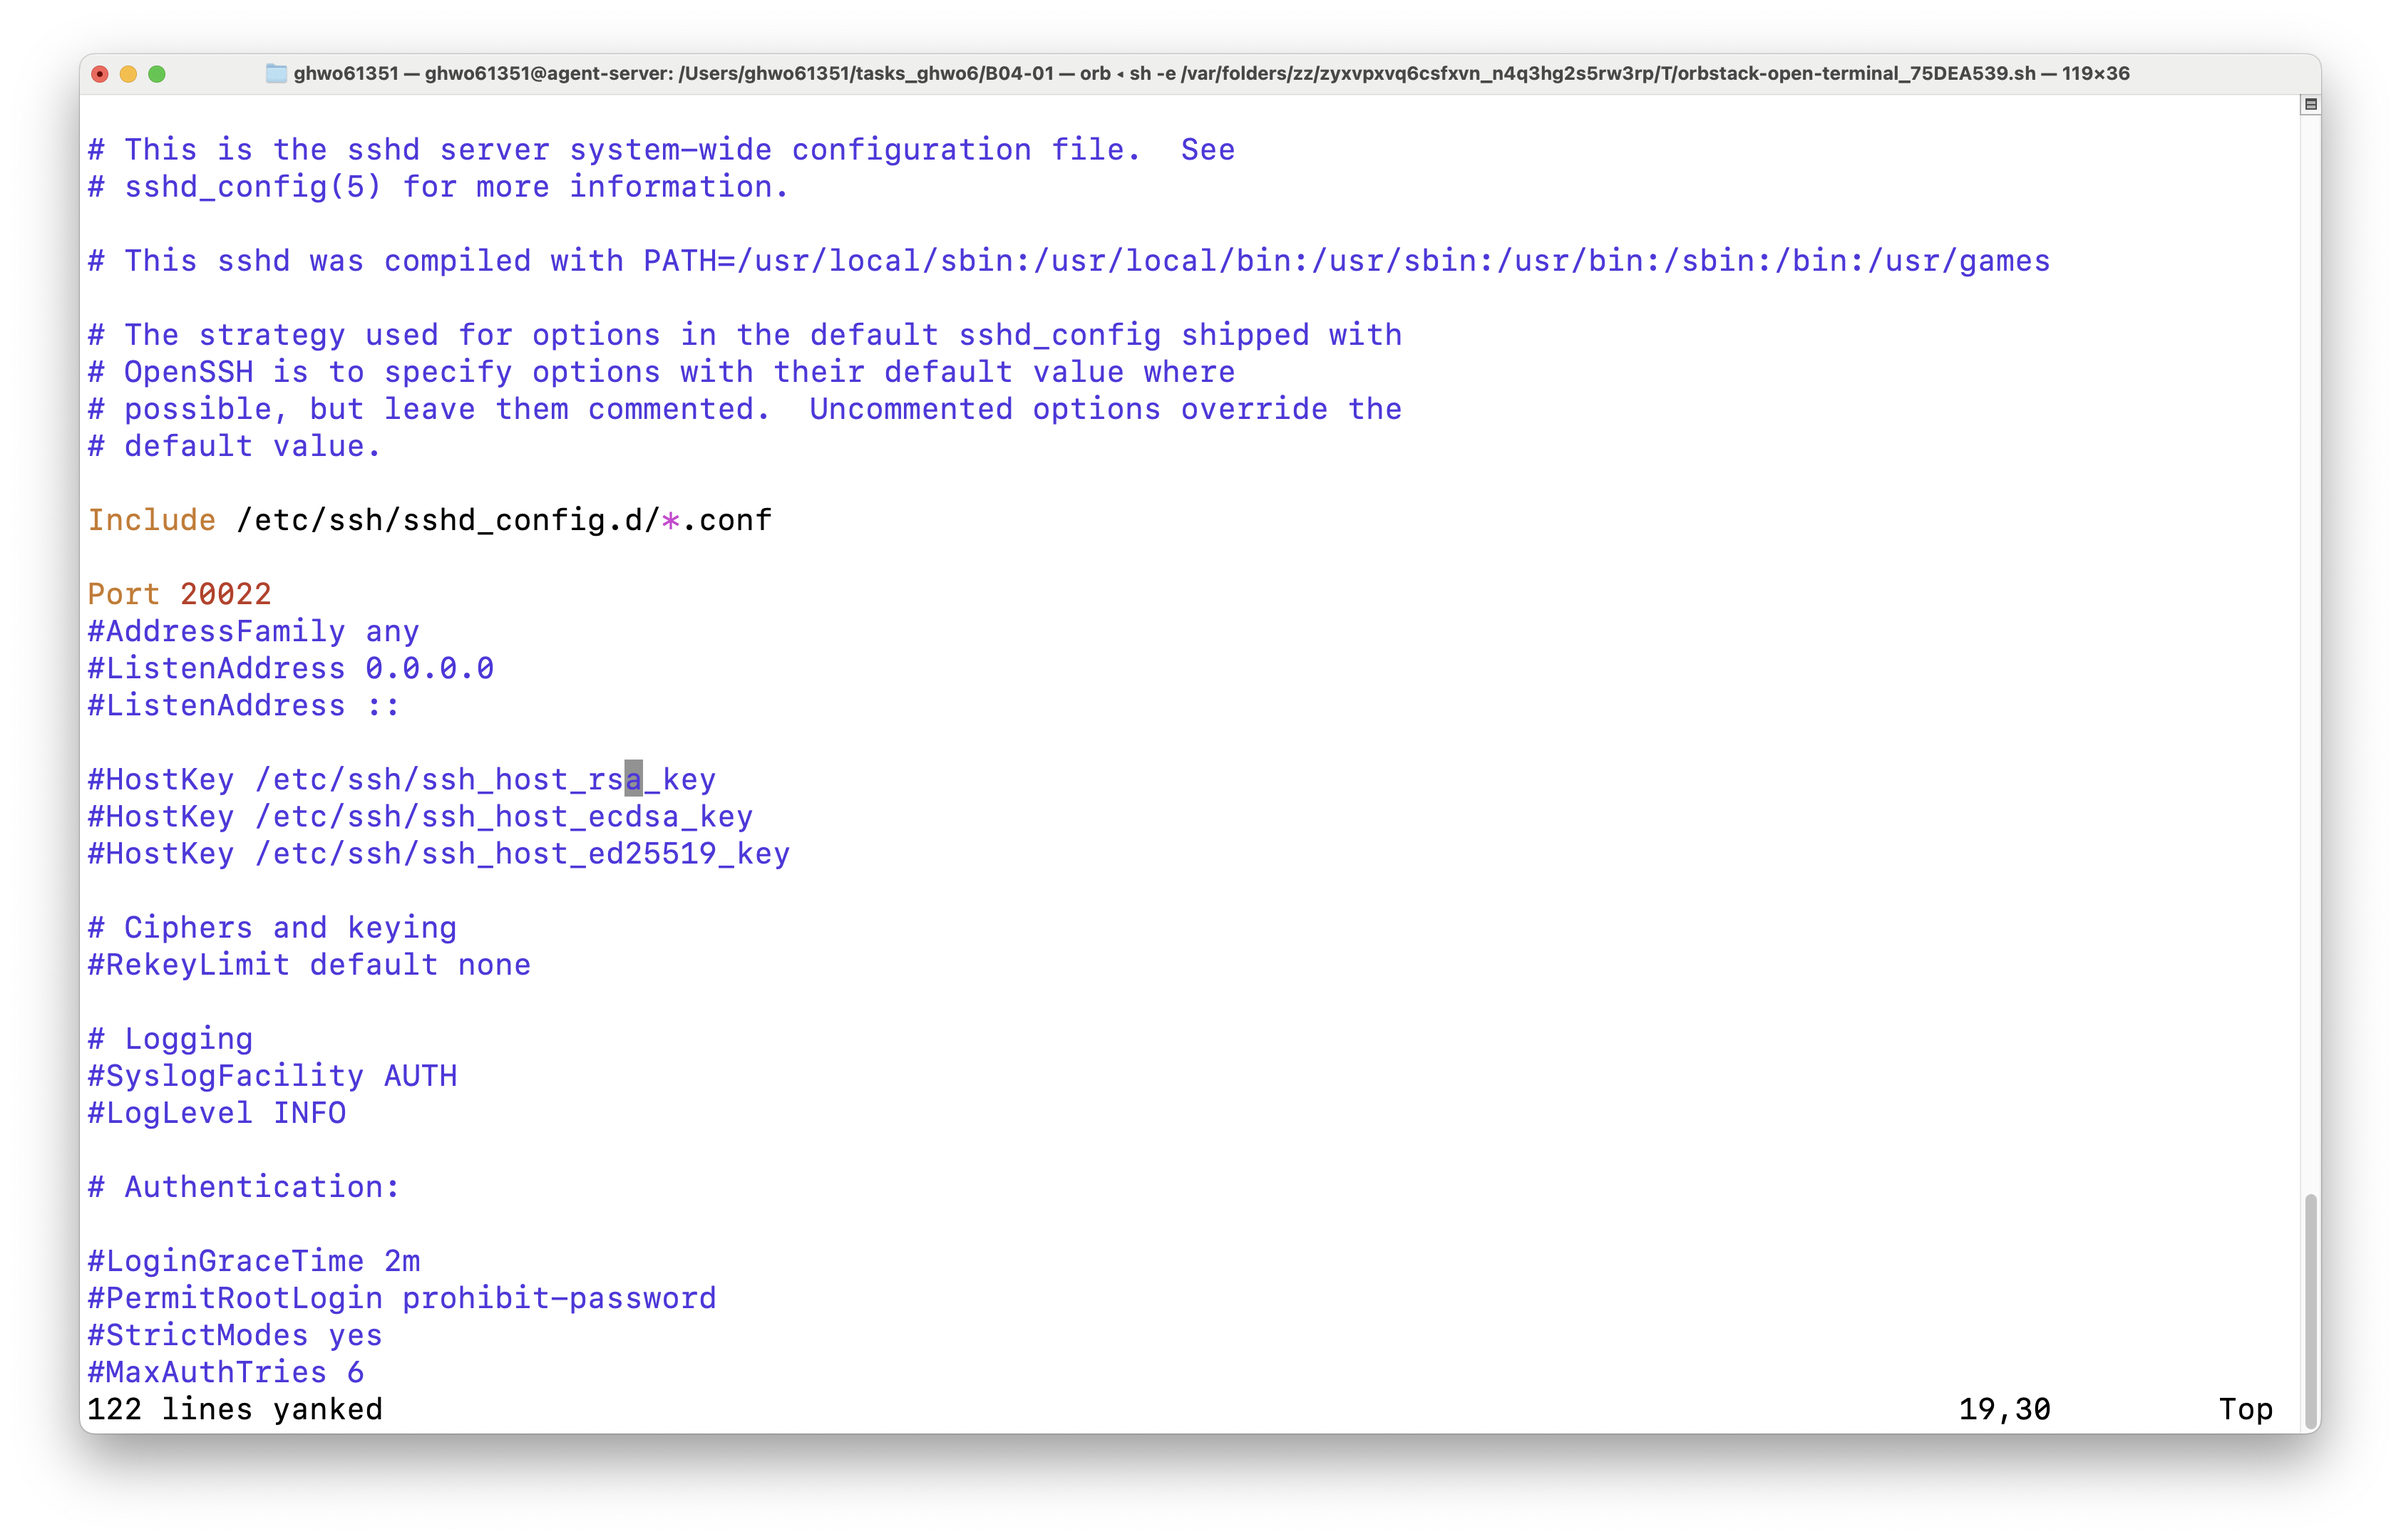
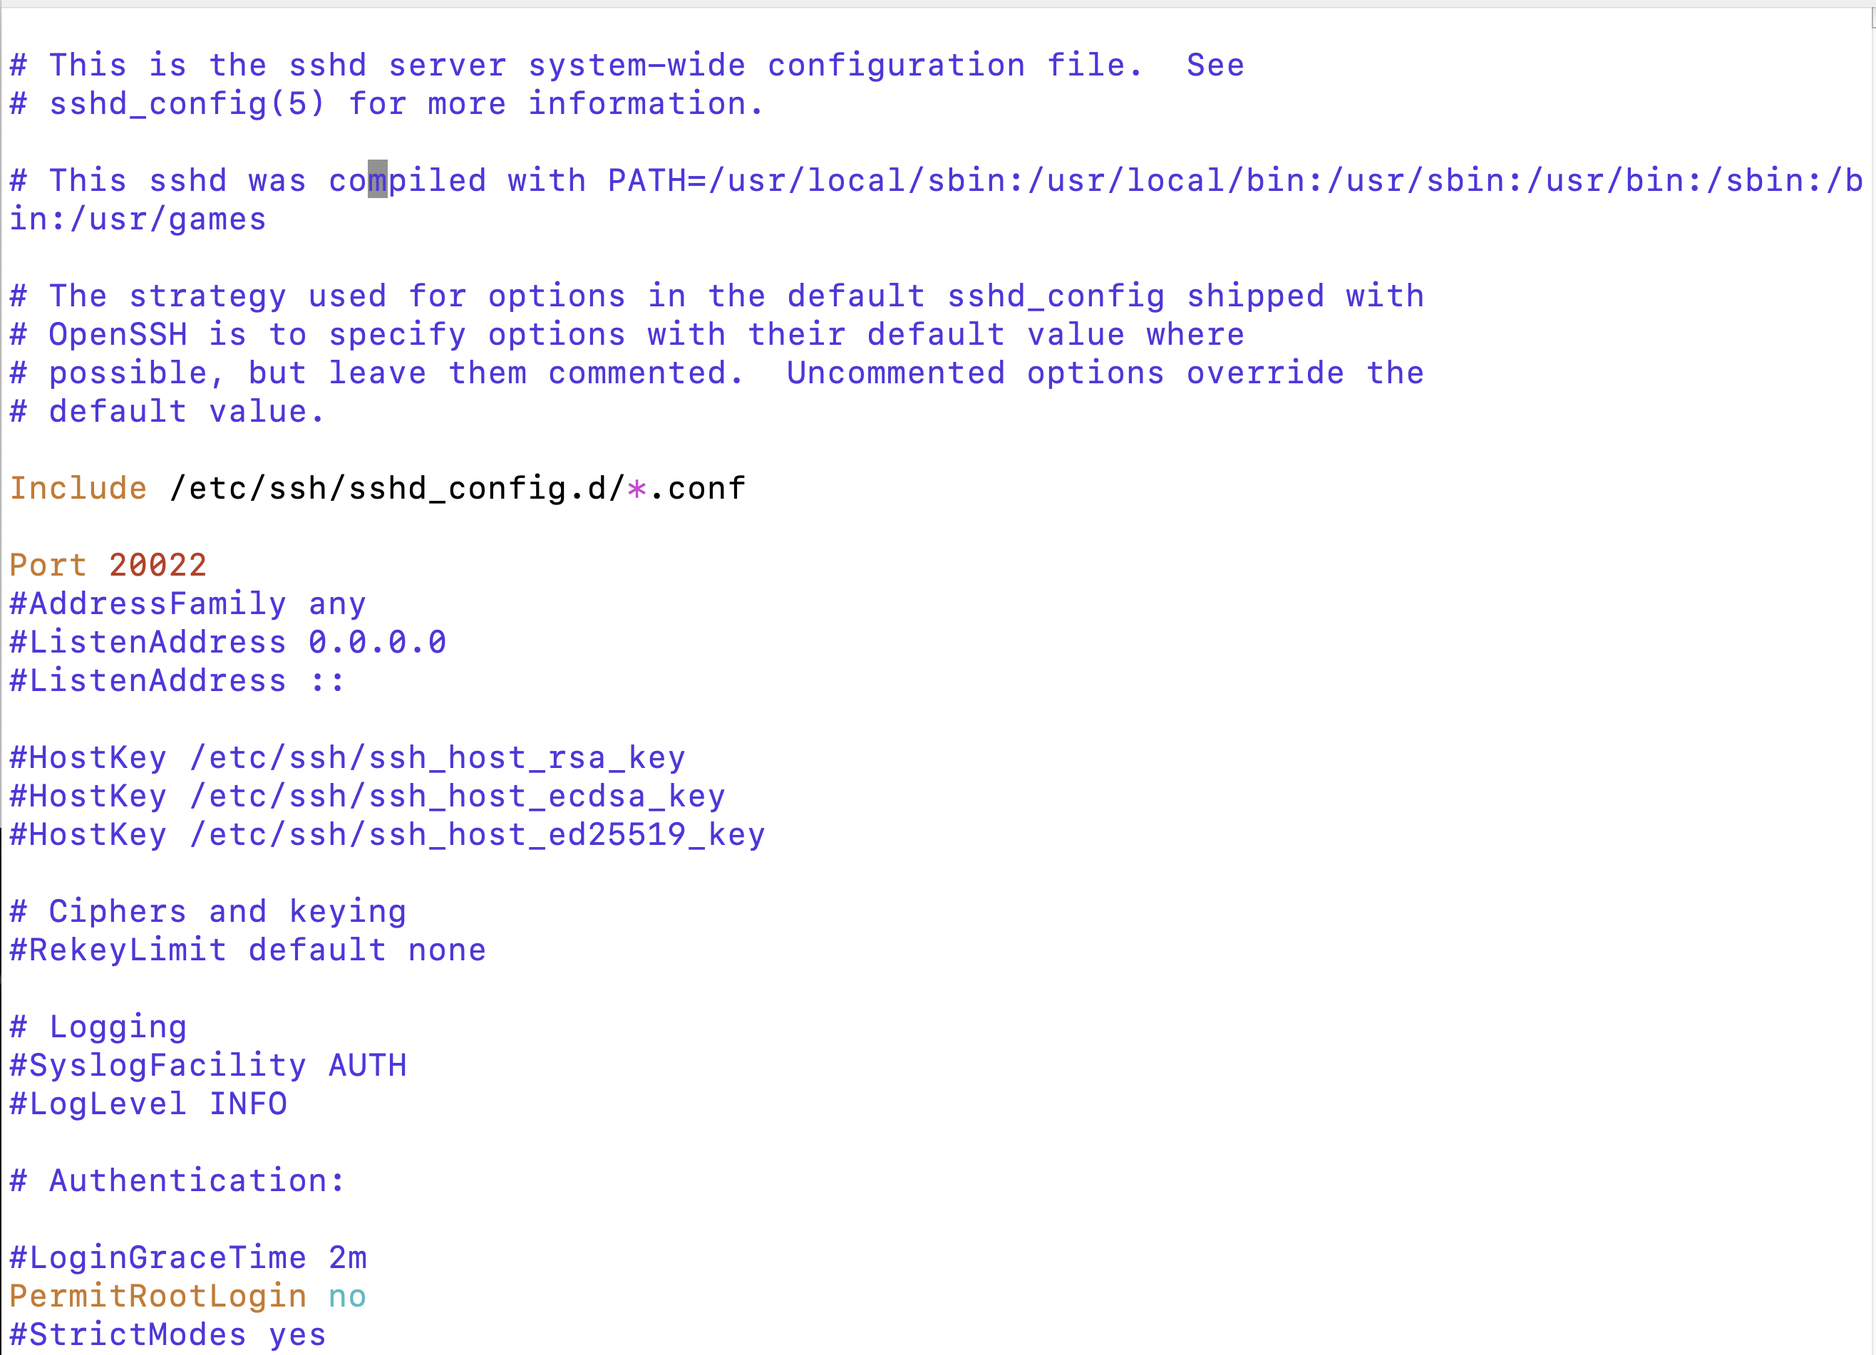
FIX:sshd뺴먹은거 추가함

Changed region(s): [[0.0, 0.031, 0.997, 0.9926], [0.997, 0.0, 1.0, 0.031], [0.7166, 0.2171, 0.7477, 0.2482]]

diff --git a/tasks_log.md b/tasks_log.md
@@ -125,10 +125,9 @@ sudo setfacl -m u:agent-admin:rwx /var/log/agent-app
 
 ```
 
-### 권한 부여
+### 권한 부여 확인
 
 ```bash
-sudo setfacl -m u:agent-admin:rwx /var/log/agent-app
 getfacl /var/log/agent-app
 
 # getfacl: Removing leading '/' from absolute path names
